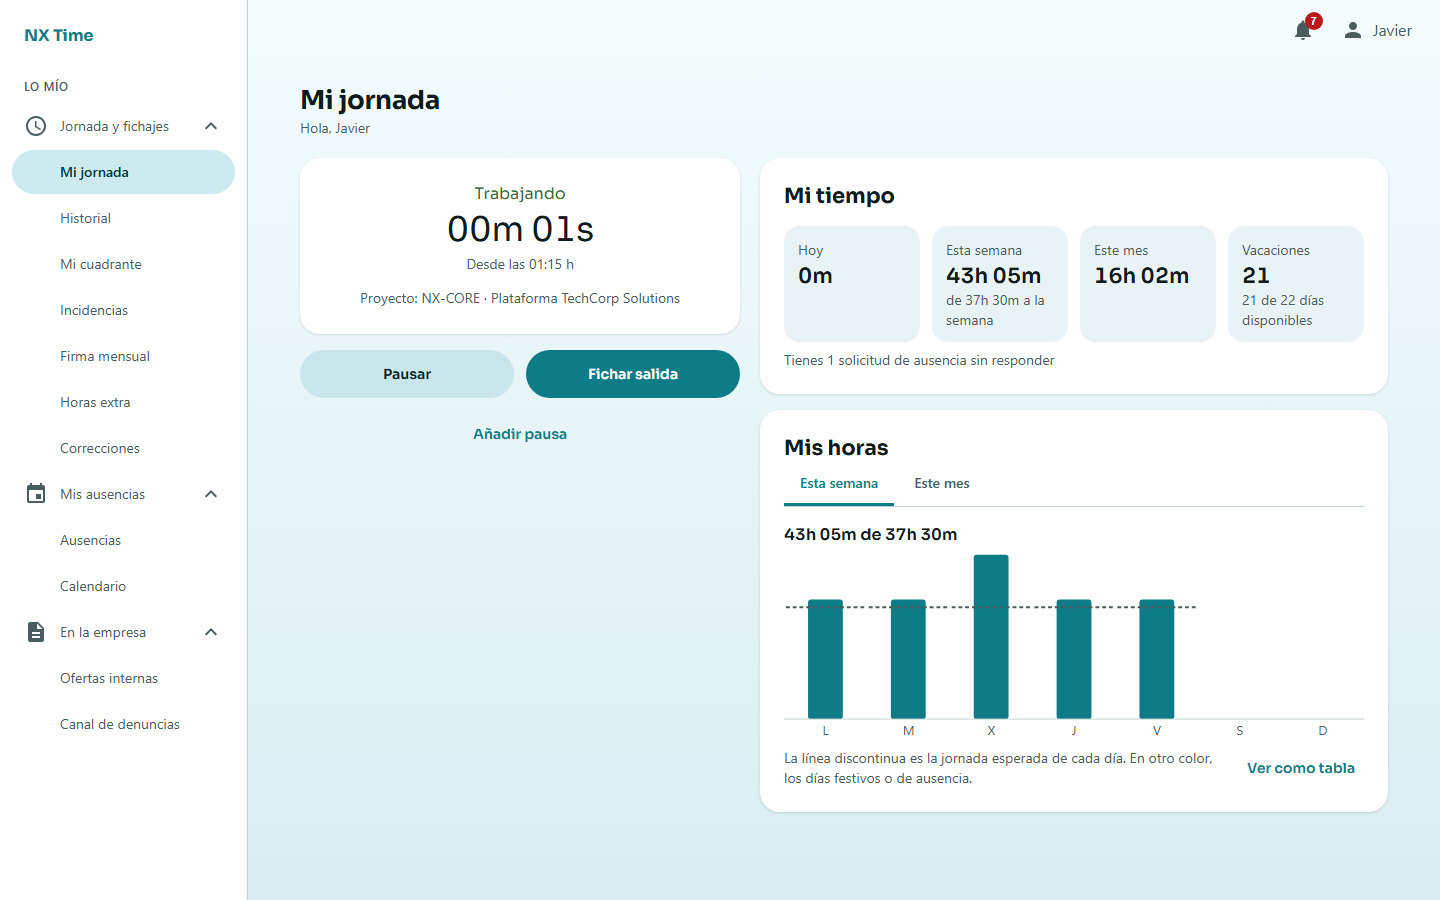
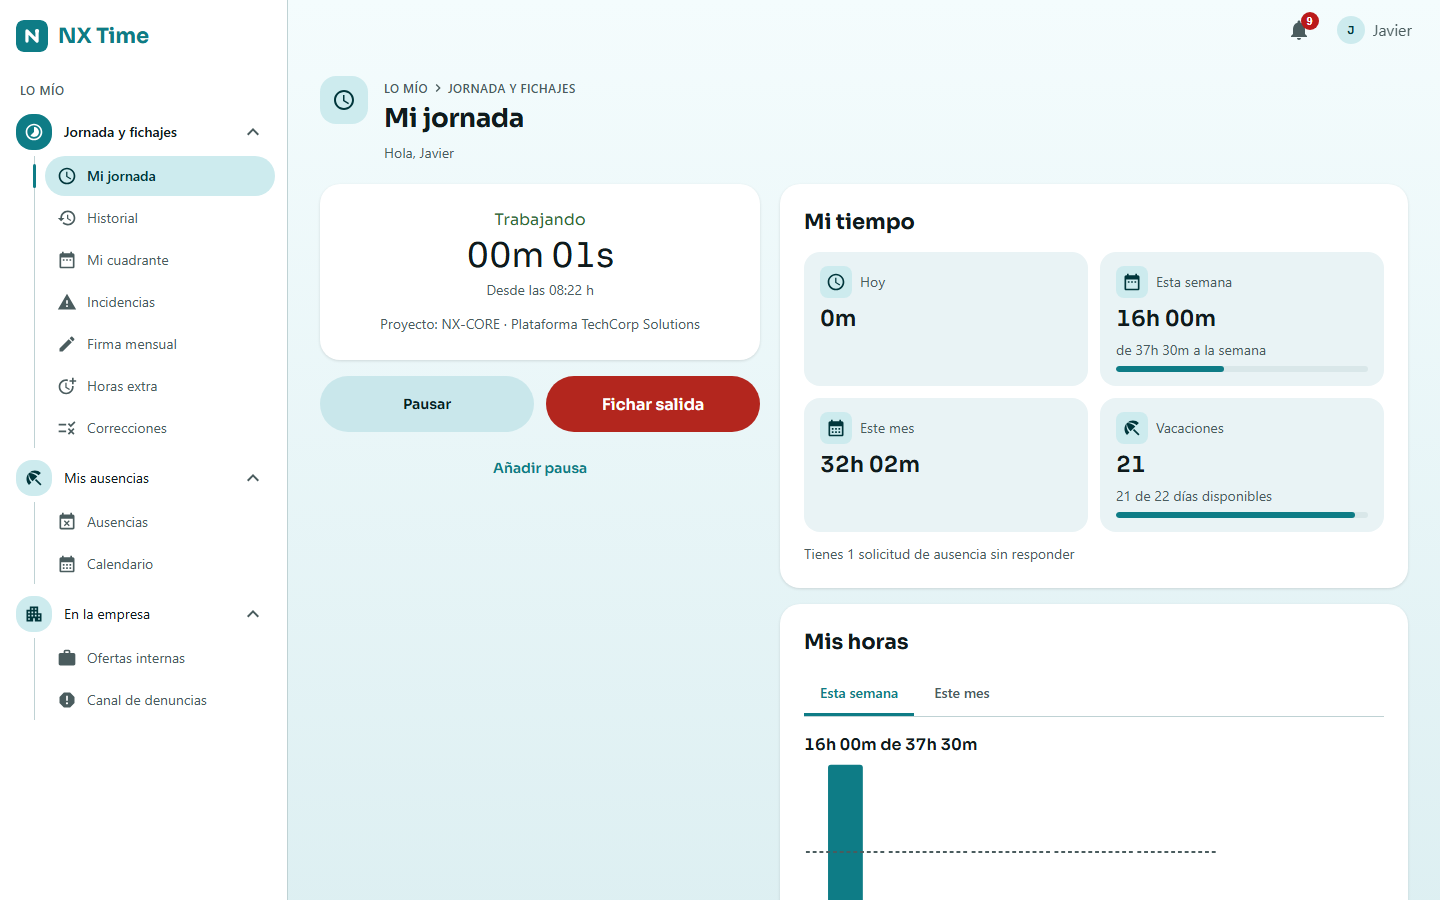
E6: las capturas de la web rehechas y la documentación al día
- npm run capturas: las nueve de siempre con el sistema visual nuevo, más tres
  (integridad de la auditoría, calendario laboral y la pantalla de entrar).
- README raíz, README de la web y docs/capturas: las capturas nuevas, el ADR
  035 en el índice y lo que una página nueva tiene que respetar.
- Una nota al pie de unas cifras ya no se pega a ellas.

diff --git a/nx-time-frontend-web/e2e/capturas.spec.ts b/nx-time-frontend-web/e2e/capturas.spec.ts
@@ -56,7 +56,7 @@ test.describe('móvil', () => {
 test.describe('escritorio', () => {
   test.use({ viewport: { width: 1440, height: 900 } });
 
-  test('RRHH: historial del equipo, plantilla y analítica', async ({ page }) => {
+  test('RRHH: historial del equipo, plantilla, analítica e integridad', async ({ page }) => {
     await entrar(page, 'elena.rios@techcorp.demo');
     await ir(page, '/equipo');
     await capturar(page, 'web-02-historial-equipo');
@@ -64,10 +64,28 @@ test.describe('escritorio', () => {
     await capturar(page, 'web-03-plantilla');
     await ir(page, '/analitica');
     await capturar(page, 'web-04-analitica');
+    // La integridad con la cadena recién comprobada: el estado, en verde, es lo
+    // que cuenta la página.
+    await ir(page, '/integridad');
+    await page.getByRole('button', { name: 'Comprobar la cadena' }).click();
+    await expect(page.getByRole('status').getByText('La traza está intacta.')).toBeVisible({ timeout: 30_000 });
+    await page.mouse.move(1400, 880);
+    await capturar(page, 'web-10-integridad');
   });
 
-  test('gestora: el editor de cuadrantes', async ({ page }) => {
+  test('la pantalla de entrar, con su panel de marca', async ({ page }) => {
+    await page.goto('/');
+    await expect(page.getByLabel('Correo electrónico')).toBeVisible();
+    await capturar(page, 'web-12-acceso');
+  });
+
+  test('gestora: el calendario laboral y el editor de cuadrantes', async ({ page }) => {
     await entrar(page, 'marta.sanchez@techcorp.demo');
+    // El calendario laboral: el mes en rejilla con sus festivos, y la lista al lado.
+    await ir(page, '/calendario-laboral');
+    await expect(page.getByRole('heading', { name: /^Festivos de / })).toBeVisible();
+    await page.mouse.move(1400, 880);
+    await capturar(page, 'web-11-calendario-laboral');
     await ir(page, '/cuadrantes');
     // La demo no siembra cuadrantes, así que la semana del equipo sale vacía:
     // se enseña el editor de una plantilla nueva (sin guardarla), que es lo

diff --git a/nx-time-frontend-web/src/estilos/base.css b/nx-time-frontend-web/src/estilos/base.css
@@ -1794,6 +1794,11 @@ h2 {
   margin-top: 16px;
 }
 
+/* Y lo que la sigue (una nota al pie de las cifras), separado de ella. */
+.nx-cifras-contenedor + .nx-sutil {
+  margin-top: 12px;
+}
+
 .nx-cifras {
   list-style: none;
   margin: 0;

diff --git a/docs/capturas/README.md b/docs/capturas/README.md
@@ -77,8 +77,9 @@ las 26 restantes son del 04/09/2026.
 
 ## La web
 
-En [`web/`](web/). Sacadas el **28/09/2026** contra el backend local con el
-perfil `demo` y sobre una base recién creada. A diferencia de las de Android, **se
+En [`web/`](web/). Rehechas el **06/10/2026**, tras el plan de estética (ADR
+035), contra el backend local con el perfil `demo` y sobre una base recién
+creada. A diferencia de las de Android, **se
 repiten con un comando**: `npm run capturas` en `nx-time-frontend-web/`
 (`e2e/capturas.spec.ts`), con el build de producción si se lanza con `CI=1`.
 
@@ -91,5 +92,8 @@ repiten con un comando**: `npm run capturas` en `nx-time-frontend-web/`
 | `web-05-editor-cuadrantes.png` | El editor de plantillas de cuadrante, también solo de la web: un turno partido con dos tramos por día (sin guardar: la demo no siembra cuadrantes) |
 | `web-06-movil.png` | La misma jornada en un móvil: barra inferior con «Más» en vez del menú lateral |
 | `web-07-movil-oscuro.png` | En tema oscuro, que sigue al del sistema |
-| `web-08-menu-por-apartados.png` | El menú lateral de un ADMIN por apartados plegables (octubre de 2026): siete apartados en vez de 28 entradas seguidas, con el de la página abierta desplegado |
+| `web-08-menu-por-apartados.png` | El menú lateral de un ADMIN por apartados plegables (octubre de 2026): siete apartados en vez de 28 entradas seguidas, con el de la página abierta desplegado. Cada apartado lleva su icono en un recuadro (teal en «Lo mío», índigo en «Gestión»), cada entrada el suyo, y las que esperan una decisión dicen cuántas |
 | `web-09-kiosco.png` | El kiosco de fichaje en una tablet (ADR 033): espera una tarjeta QR por la cámara, o que alguien busque su nombre y teclee su PIN. La imagen es la cámara de prueba de Chromium |
+| `web-10-integridad.png` | La integridad de la auditoría a lo ancho: lo comprobado anoche en cifras, «comprobar ahora» con su resultado en verde, y al lado el «cómo funciona» en tres puntos. Antes eran dos tarjetas en una columna de 560 px |
+| `web-11-calendario-laboral.png` | El calendario laboral: el mes en rejilla con los festivos pintados y la lista al lado. Pulsar un día libre abre «nuevo festivo» con esa fecha |
+| `web-12-acceso.png` | La pantalla de entrar en escritorio, con el panel de marca |

diff --git a/nx-time-frontend-web/README.md b/nx-time-frontend-web/README.md
@@ -30,7 +30,7 @@ src/
 ├── rutas/        rutas.tsx      guarda por authority, 403 y 404
 ├── paginas/      una carpeta por área (jornada, historial, ausencias, cuadrante,
 │                 cuadrantes, analitica, plantilla, empresa...); cada página, su trozo de JS
-├── componentes/  Basicos · Estados · Tabla · Dialogo · Pestanas · Barras · Notificaciones · Icono
+├── componentes/  Basicos · CabeceraDePagina · Cifra · Estados · Iniciales · Tabla · Dialogo · Pestanas · Barras · Notificaciones · Icono
 ├── i18n/es/      un fichero por área; ningún texto literal en los componentes
 ├── estilos/      tokens.css (generado) · base.css
 ├── push/         push.ts (encender, apagar, el token sigue a la sesión) · PuenteDelServiceWorker.tsx
@@ -45,6 +45,18 @@ scripts/          tokens.mjs · presupuesto.mjs · iconos.mjs · medir.mjs
 **Una sección nueva son dos pasos**: su línea en `navegacion/secciones.ts` y su
 página. El menú, la ruta y el destino de aviso salen solos, y un test compara
 el catálogo con `NoticeType.java` y `RoleAuthorities.java` del backend.
+
+Lo que la página nueva tiene que respetar del sistema visual
+([ADR 035](../docs/adr/035-sistema-visual-de-la-web.md)):
+
+- **Su icono es solo suyo**: otro test falla si dos entradas del menú comparten
+  dibujo. Los trazados están en `componentes/Icono.tsx`.
+- **Empieza por `<CabeceraDePagina>`**, que saca el icono y la miga de la URL.
+- **Ocupa el ancho** (`.nx-pagina`, hasta 1280 px) y se reparte con
+  `.nx-composicion--principal-lateral`, `--mitades` o `--lista-detalle`. Nada
+  de una columna estrecha centrada.
+- **Lo que va con el color de la zona usa `--nx-acento*`** (teal en «Lo mío»,
+  índigo en «Gestión»), y sobre un contenedor el texto es su `on-…-contenedor`.
 
 ## Los dos ficheros generados
 
@@ -61,7 +73,7 @@ movió `docs/openapi.json` era un PR de backend.
 | Fichero | Se genera desde | Comando |
 |---|---|---|
 | `src/api/schema.d.ts` | `../docs/openapi.json` | `npm run api:types` |
-| `src/estilos/tokens.css` | `ui/theme/Color.kt` y `Type.kt` de Android | `npm run tokens` |
+| `src/estilos/tokens.css` | `ui/theme/Color.kt`, `Type.kt` y `Shape.kt` de Android | `npm run tokens` |
 
 `npm run generar` hace los dos.
 

diff --git a/README.md b/README.md
@@ -230,9 +230,18 @@ solo tiene sentido con pantalla grande y teclado:
 | Kiosco de fichaje | Menú por apartados |
 |---|---|
 | ![Kiosco en una tablet](docs/capturas/web/web-09-kiosco.png) | ![Menú por apartados](docs/capturas/web/web-08-menu-por-apartados.png) |
-| Una tablet en la entrada: tarjeta QR por la cámara, o nombre y PIN | Siete apartados plegables en vez de 28 entradas seguidas |
+| Una tablet en la entrada: tarjeta QR por la cámara, o nombre y PIN | Siete apartados plegables, cada uno con su icono y con lo que espera una decisión |
 
-Las **28 capturas de la app y las 9 de la web**, con la explicación de qué
+| Integridad de la auditoría | Calendario laboral | Acceso |
+|---|---|---|
+| ![Integridad de la auditoría](docs/capturas/web/web-10-integridad.png) | ![Calendario laboral](docs/capturas/web/web-11-calendario-laboral.png) | ![Pantalla de entrar](docs/capturas/web/web-12-acceso.png) |
+| La cadena de la traza, comprobada, y cómo funciona | El mes en rejilla con sus festivos | El panel de marca, en escritorio |
+
+La web comparte el sistema visual con la app (colores, tipografía y formas
+salen del tema de Android) y lo aprovecha a lo ancho: ver el
+[ADR 035](docs/adr/035-sistema-visual-de-la-web.md).
+
+Las **28 capturas de la app y las 12 de la web**, con la explicación de qué
 demuestra cada una, están en [`docs/capturas/`](docs/capturas/). Son reales,
 contra la API, con los datos que siembra `DemoDataSeeder`; las de la web se
 repiten con `npm run capturas`.
@@ -590,6 +599,7 @@ Las decisiones no obvias están justificadas en [`docs/adr/`](docs/adr/):
 32. [La zona horaria es de cada empresa, y los días se cuentan al leer](docs/adr/032-zona-horaria-por-empresa.md)
 33. [Fichaje en kiosco: un dispositivo que solo ficha, tarjeta QR firmada y PIN por persona](docs/adr/033-fichaje-en-kiosco.md)
 34. [Endurecimiento de octubre: confirmar el correo al registrarse y topes donde no los había](docs/adr/034-endurecimiento-de-octubre.md)
+35. [El sistema visual de la web: el ancho, el acento de cada zona y piezas compartidas](docs/adr/035-sistema-visual-de-la-web.md)
 
 ---
 
